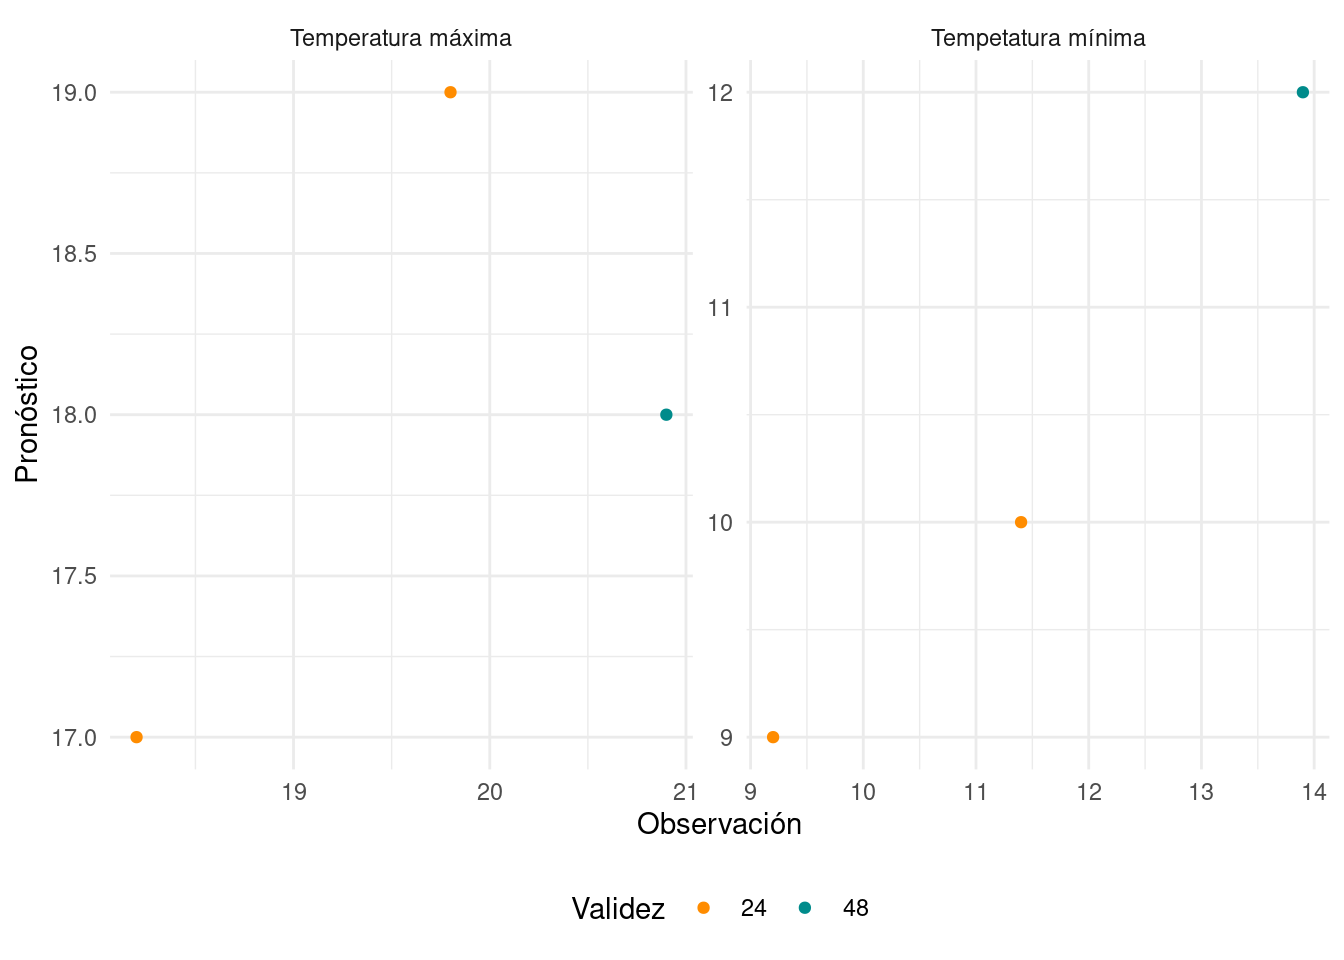
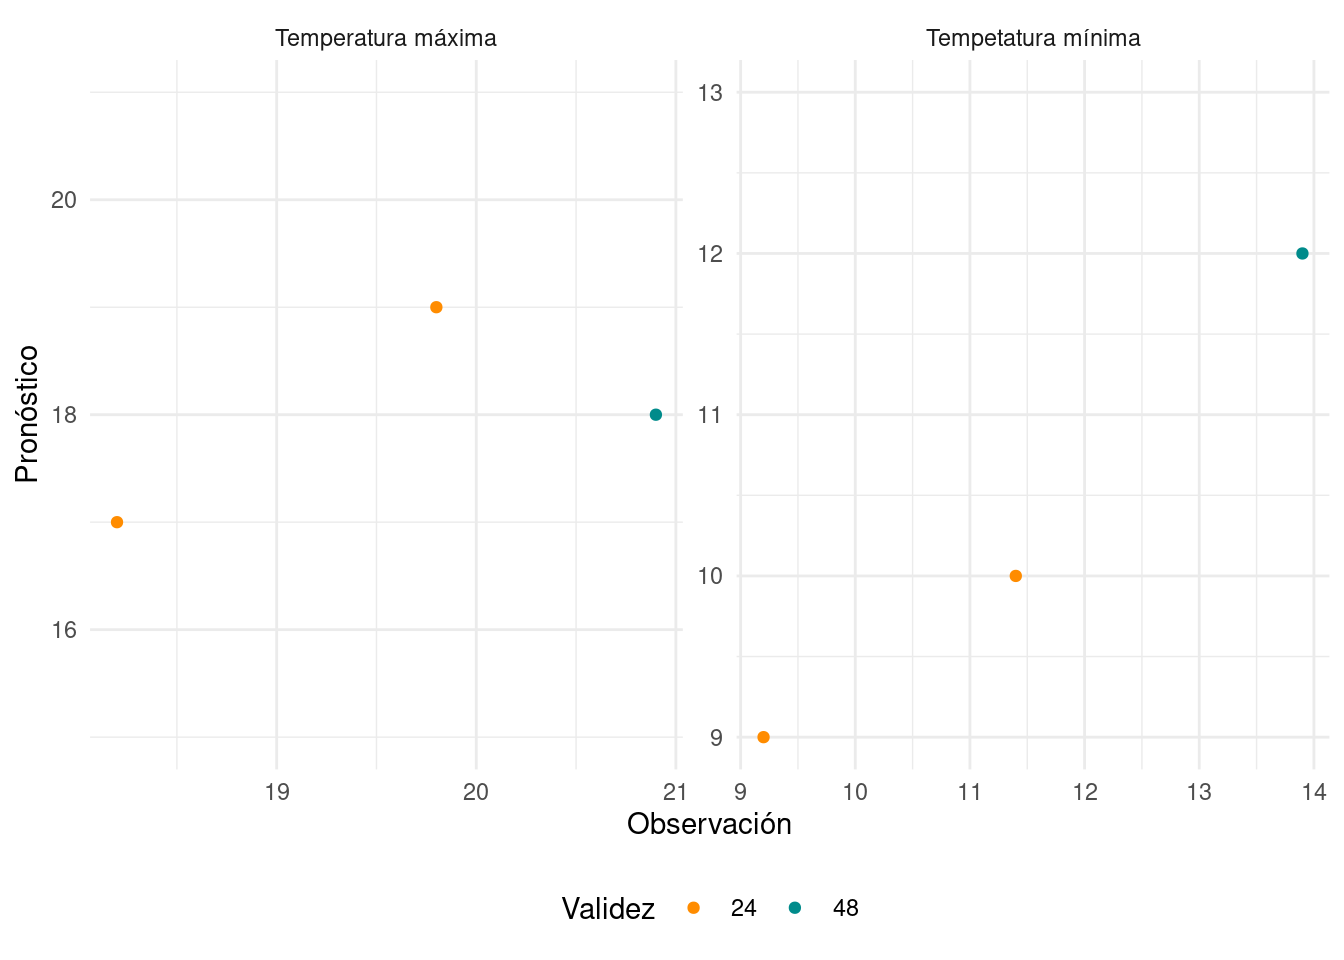
Build con pronóstico para 11 y 12 de septiembre

diff --git a/docs/index.html b/docs/index.html
@@ -306,8 +306,8 @@ $(document).ready(function () {
 </div>
 
 
-<div id="análisis-del-día-7-de-septiembre-de-2020" class="section level2">
-<h2>Análisis del día 7 de septiembre de 2020</h2>
+<div id="análisis-del-día-10-de-septiembre-de-2020" class="section level2">
+<h2>Análisis del día 10 de septiembre de 2020</h2>
 <div id="ciudad-de-buenos-aires" class="section level3">
 <h3>Ciudad de Buenos Aires</h3>
 <table class="table table-responsive" style="margin-left: auto; margin-right: auto;">
@@ -338,48 +338,48 @@ Viento
 <tbody>
 <tr>
 <td style="text-align:left;">
-07/09/2020
+11/09/2020
 </td>
 <td style="text-align:left;max-width: 22em; ">
-Tiempo bueno, despejado por la mañana y parcialmente nublado por la tarde. Probabilidad de neblina por la mañana. Temperatura en ascenso respecto del día previo con máxima de 19° y mínima de 10°. Viento débil del NE.
+Se espera buen tiempo durante la mañana, parcialmente nublado pero desmejorando por la tade con alta probabilidad de lluvias durante la tarde (~18-19 horas). Viento del N-NE rotando al SO durante la tarde.
 </td>
 <td style="text-align:center;color: red !important;">
-19 °
+21 °
 </td>
 <td style="text-align:center;color: blue !important;">
-10 °
-</td>
-<td style="text-align:center;max-width: 7em; ">
-Despejado
-</td>
-<td style="text-align:center;">
-NE
-</td>
-<td style="text-align:center;">
-<img src="img/despejado.png" width="60" />
-</td>
-</tr>
-<tr>
-<td style="text-align:left;">
-07/09/2020
-</td>
-<td style="text-align:left;max-width: 22em; ">
-Parcialmente nublado por la mañana con probabilidad de neblinas. Desmejorando durante la tarde con baja probabilidad de precipitación. Viento del NE rotando al SO por la tarde noche. Temperatura mínima de 12° y máxima de 18°
-</td>
-<td style="text-align:center;color: red !important;">
-18 °
-</td>
-<td style="text-align:center;color: blue !important;">
-12 °
+13 °
 </td>
 <td style="text-align:center;max-width: 7em; ">
 Parcialmente nublado
 </td>
 <td style="text-align:center;">
-NE - SO
+NE-SO
 </td>
 <td style="text-align:center;">
-<img src="img/mayormente-nublado.png" width="60" />
+<img src="img/tormentas-aisladas.png" width="60" />
+</td>
+</tr>
+<tr>
+<td style="text-align:left;">
+12/09/2020
+</td>
+<td style="text-align:left;max-width: 22em; ">
+Se espera una disminución de temperatura respecto del día anterior debido al paso de un frente frío. Viento suaves del E-NE. Con cielos despejados durante el día.
+</td>
+<td style="text-align:center;color: red !important;">
+15 °
+</td>
+<td style="text-align:center;color: blue !important;">
+10 °
+</td>
+<td style="text-align:center;max-width: 7em; ">
+Algo nublado a Despejado
+</td>
+<td style="text-align:center;">
+E-NE
+</td>
+<td style="text-align:center;">
+<img src="img/despejado.png" width="60" />
 </td>
 </tr>
 </tbody>
@@ -415,13 +415,13 @@ Viento
 <tbody>
 <tr>
 <td style="text-align:left;">
-08/09/2020
+11/09/2020
 </td>
 <td style="text-align:left;max-width: 22em; ">
-Se espera buen tiempo, con algo de nubosidad, principalmente nubes altas. Viento moderado prediminante del NE durante el día con un aumento de la humedad y temperatura máxima de 22° y mínima de 10°
+Se espera buen tiempo durante la madrugada y primera parte de día, con cielo parcialmente nublado. Por la tarde noche se esperan tormentas aisladas. Viento debil del N durante el día rotando al SE por la tarde.
 </td>
 <td style="text-align:center;color: red !important;">
-22 °
+30 °
 </td>
 <td style="text-align:center;color: blue !important;">
 10 °
@@ -430,33 +430,56 @@ Se espera buen tiempo, con algo de nubosidad, principalmente nubes altas. Viento
 Parcialmente nublado
 </td>
 <td style="text-align:center;">
-NE
+SE
 </td>
 <td style="text-align:center;">
-<img src="img/algo-nublado.png" width="60" />
+<img src="img/tormentas-aisladas.png" width="60" />
 </td>
 </tr>
 <tr>
 <td style="text-align:left;">
-09/09/2020
+12/09/2020
 </td>
 <td style="text-align:left;max-width: 22em; ">
-Se espera buen tiempo con nubosidad alta por la madrugada y cielos despejados durante el día. Viento del NE generando un aumento en la humedad.
+Se esperan lluvias durante la madrugada, mejorando durante el día. Por la tarde cielo parcialmente nublado pero se mantiene la humedad. Temperatura mínima templadas y máximas alrededor de 25°C
 </td>
 <td style="text-align:center;color: red !important;">
-27 °
+25 °
 </td>
 <td style="text-align:center;color: blue !important;">
-10 °
+14 °
 </td>
 <td style="text-align:center;max-width: 7em; ">
-Algo nublado
+Mayormente nublado
 </td>
 <td style="text-align:center;">
-NE
+SE
 </td>
 <td style="text-align:center;">
-<img src="img/despejado.png" width="60" />
+<img src="img/lluvias-aisladas.png" width="60" />
+</td>
+</tr>
+<tr>
+<td style="text-align:left;">
+12/09/2020
+</td>
+<td style="text-align:left;max-width: 22em; ">
+Se esperan lluvias durante la madrugada, mejorando durante el día. Por la tarde cielo parcialmente nublado pero se mantiene la humedad. Temperatura mínima templadas y máximas alrededor de 25°C
+</td>
+<td style="text-align:center;color: red !important;">
+25 °
+</td>
+<td style="text-align:center;color: blue !important;">
+14 °
+</td>
+<td style="text-align:center;max-width: 7em; ">
+Mayormente nublado
+</td>
+<td style="text-align:center;">
+SE
+</td>
+<td style="text-align:center;">
+<img src="img/lluvias-aisladas.png" width="60" />
 </td>
 </tr>
 </tbody>

diff --git a/docs/buenos-aires-val.html b/docs/buenos-aires-val.html
@@ -343,13 +343,13 @@ RMSE
 Temperatura máxima
 </td>
 <td style="text-align:center;">
--1.0
+NA
 </td>
 <td style="text-align:center;">
-1.0
+NA
 </td>
 <td style="text-align:center;">
-0.28
+NA
 </td>
 </tr>
 <tr>
@@ -360,10 +360,10 @@ Temperatura máxima
 Temperatura máxima
 </td>
 <td style="text-align:center;">
--2.9
+NA
 </td>
 <td style="text-align:center;">
-2.9
+NA
 </td>
 <td style="text-align:center;">
 NA
@@ -377,13 +377,13 @@ NA
 Temperatura mínima
 </td>
 <td style="text-align:center;">
--0.8
+NA
 </td>
 <td style="text-align:center;">
-0.8
+NA
 </td>
 <td style="text-align:center;">
-0.85
+NA
 </td>
 </tr>
 <tr>
@@ -394,10 +394,10 @@ Temperatura mínima
 Temperatura mínima
 </td>
 <td style="text-align:center;">
--1.9
+NA
 </td>
 <td style="text-align:center;">
-1.9
+NA
 </td>
 <td style="text-align:center;">
 NA

diff --git a/docs/salta-aero-val.html b/docs/salta-aero-val.html
@@ -343,10 +343,10 @@ RMSE
 Temperatura máxima
 </td>
 <td style="text-align:center;">
--1.5
+NA
 </td>
 <td style="text-align:center;">
-1.5
+NA
 </td>
 <td style="text-align:center;">
 NA
@@ -360,10 +360,10 @@ NA
 Temperatura máxima
 </td>
 <td style="text-align:center;">
--2.0
+NA
 </td>
 <td style="text-align:center;">
-2.0
+NA
 </td>
 <td style="text-align:center;">
 NA
@@ -377,10 +377,10 @@ NA
 Temperatura mínima
 </td>
 <td style="text-align:center;">
-4.7
+NA
 </td>
 <td style="text-align:center;">
-4.7
+NA
 </td>
 <td style="text-align:center;">
 NA
@@ -394,10 +394,10 @@ NA
 Temperatura mínima
 </td>
 <td style="text-align:center;">
-4.6
+NA
 </td>
 <td style="text-align:center;">
-4.6
+NA
 </td>
 <td style="text-align:center;">
 NA
